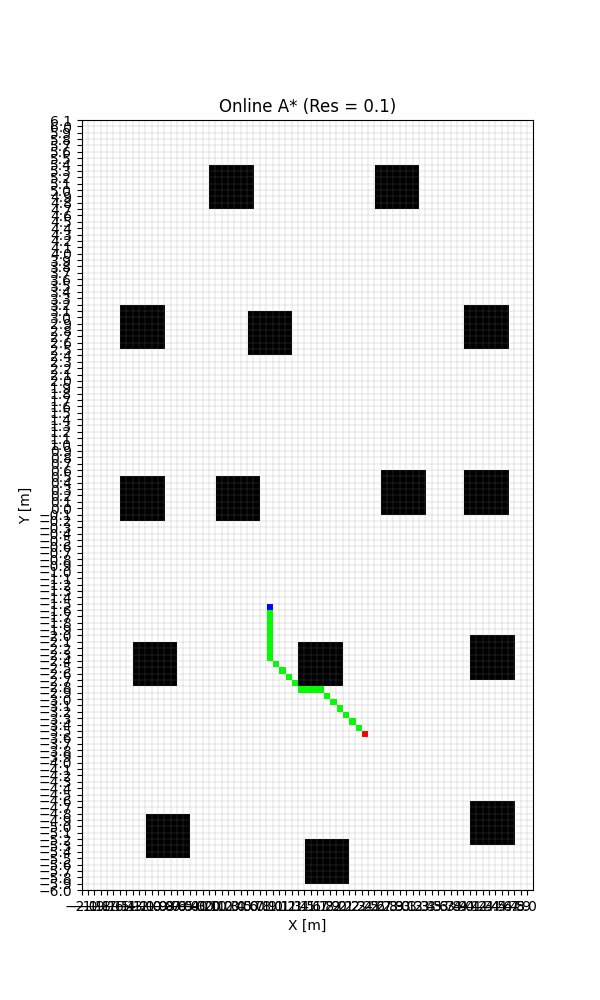
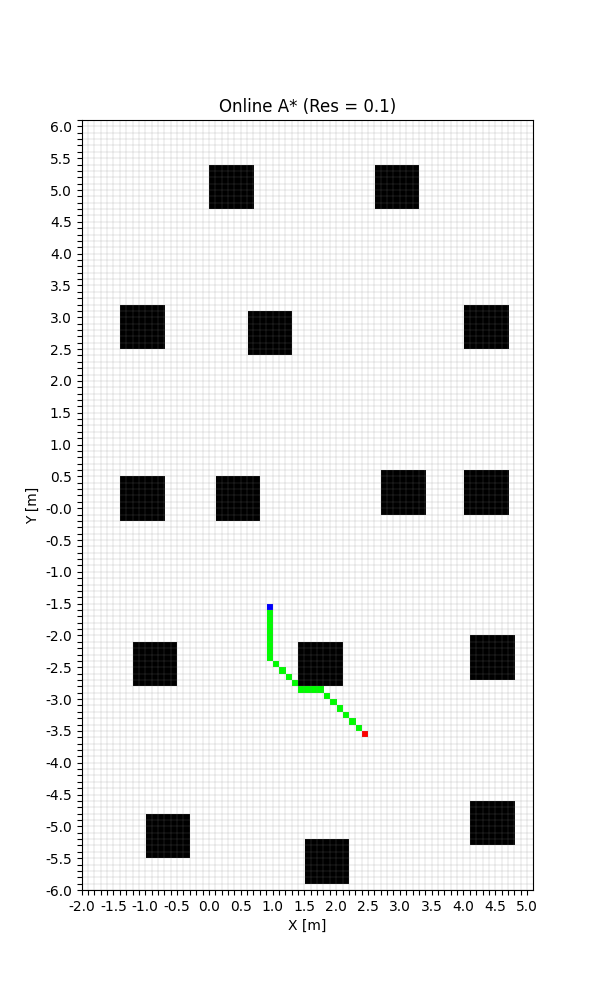
Refined Axes on Plots

Changed region(s): [[0.03, 0.124, 0.12, 0.899], [0.12, 0.899, 0.87, 0.93]]

diff --git a/asgn1/run.py b/asgn1/run.py
@@ -371,7 +371,7 @@ def Online_A_Star(map_vals, res, start, goal):
 Res = 1
 Res2 = 0.1
 
-s_g_list_step = [[Res,(0.5,-1.5),(0.5,1.5),0],        # STEP 3 START-GOAL POSITIONS
+s_g_list_step = [[Res,(0.5,-1.5),(0.5,1.5),0],       # STEP 3 START-GOAL POSITIONS
                  [Res,(4.5,3.5),(4.5,-1.5),0],
                  [Res,(-0.5,5.5),(1.5,-3.5),0],
                   
@@ -453,6 +453,13 @@ for s_g in s_g_list_step:
     plt.figure(figsize=(6,10))
     # Display 2D Grid
     plt.imshow(grid, cmap=cmap, origin='upper', extent=[-2, grid_width*Res - 2 , -6, grid_height*Res - 6])
+
+    # Label Major Values on Axes (i.e. -6, -5.5, -5, etc.)
+    ax = plt.gca()
+
+    # Check that the Value to Label is a Multiple of 0.5 
+    ax.xaxis.set_major_formatter(plt.FuncFormatter(lambda x, _: f"{x:.1f}" if abs(x*2 - round(x*2)) < 1e-6 else ""))
+    ax.yaxis.set_major_formatter(plt.FuncFormatter(lambda y, _: f"{y:.1f}" if abs(y*2 - round(y*2)) < 1e-6 else ""))
 
     # Create Grid Lines
     x_ticks = np.arange(-2, grid_width*Res - 2, Res)
